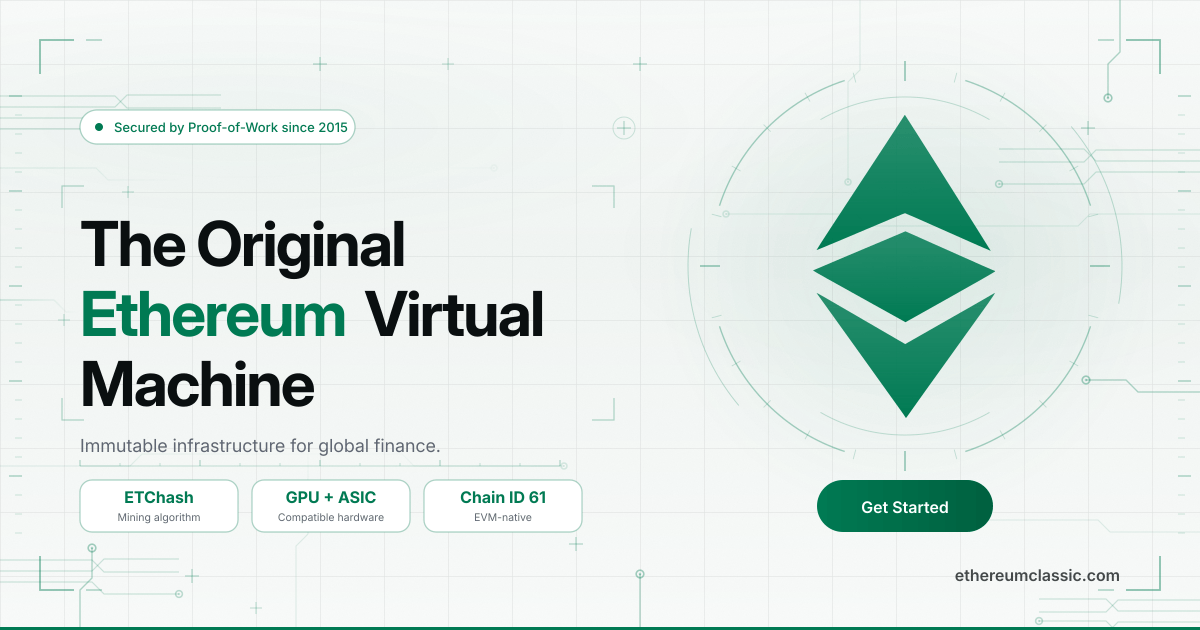
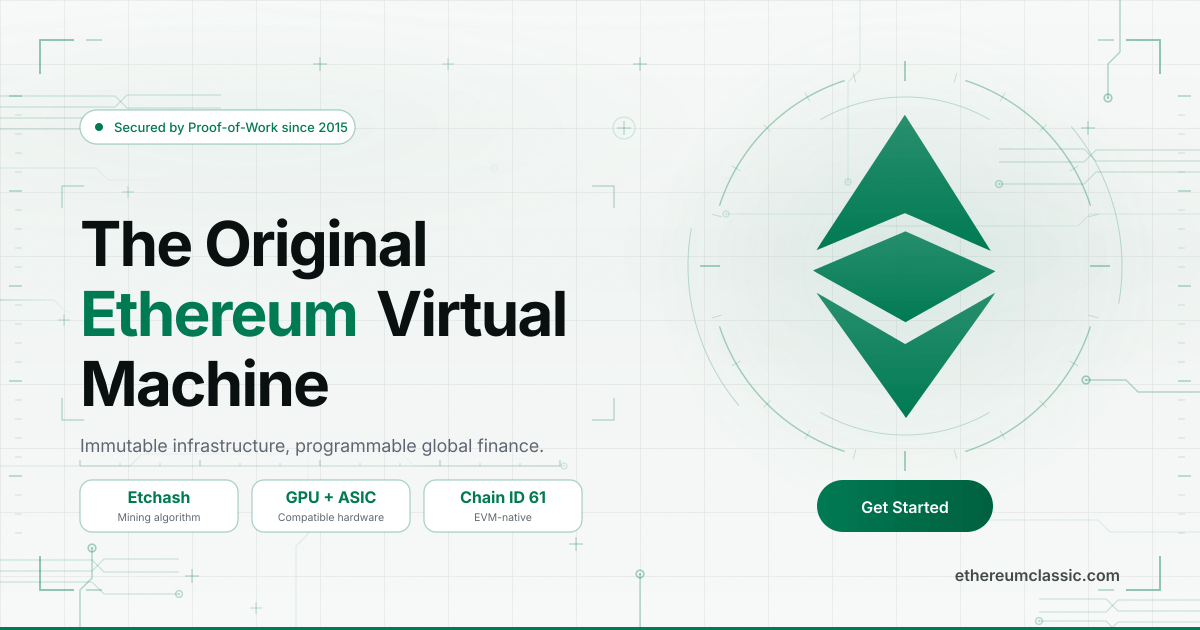
Position the site as the home of Ethereum Classic
The site takes the place bitcoin.com takes for Bitcoin, beside
ethereumclassic.org as bitcoin.org's counterpart. Its structured data,
About page, llms files and README call it the home of Ethereum Classic,
and nothing calls it official: ethereumclassic.org says there is no
official anything in Ethereum Classic, and bitcoin.com makes no such
claim either.

The home page's title is its hero headline, "Ethereum Classic: The
Original Ethereum Virtual Machine". Its description, the hero's badge,
the footer, the llms summary and the network's structured data carry the
descriptor "Immutable infrastructure, programmable global finance", and
the badge no longer calls Ethereum Classic the leading smart contract
platform. The README lists the site's sections, where its figures come
from and how to report an error. The social card shows the descriptor and
spells Etchash as the site does, and the security best practices
article tells readers to use trusted links from ethereumclassic.com,
where it said official ones.

The agent instructions record the position, together with naming
Ethereum Classic DAO in full and labeling release links "Latest release".

diff --git a/lib/site-identity.ts b/lib/site-identity.ts
@@ -5,9 +5,13 @@ import { CONTACT_EMAILS, DISCORD_URL } from '@/lib/social'
  * (app/components/JsonLd.tsx), the About page and both llms files, so search engines, AI systems and
  * readers are told the same thing. lib/site-facts.ts holds the facts most often stated wrongly elsewhere.
  *
- * The site describes itself by its domain, its sources and its relationships, never as "official":
- * Ethereum Classic is an open network that no one organization speaks for. Authority here comes from
- * linking every claim to its primary source.
+ * The site takes the position bitcoin.com takes for Bitcoin, with ethereumclassic.org as its bitcoin.org: it is
+ * the home of Ethereum Classic and says so. The maintainer's descriptor, "immutable infrastructure, programmable
+ * global finance", plays the part of bitcoin.com's "Bitcoin for Everyone": it leads the home page's description
+ * and fills the hero badge, the footer, the llms summary and the network's structured data, while the title
+ * names the original Ethereum Virtual Machine. It never calls itself "official", as bitcoin.com does not:
+ * Ethereum Classic is an open network that no one organization speaks for, and the community site says there is
+ * "no official anything". The site's standing comes from linking every claim to its source.
  */
 
 export const SITE_URL = 'https://ethereumclassic.com'
@@ -21,7 +25,7 @@ export const COMMUNITY_SITE_URL = 'https://ethereumclassic.org'
 export const CORRECTIONS_EMAIL = CONTACT_EMAILS.website
 
 export const SITE_DESCRIPTION =
-  'Ethereum Classic at its namesake domain: wallets, exchanges, apps, mining, development and research, with network figures read from the chain and each specification linked to its source.'
+  'The home of Ethereum Classic: wallets, exchanges, apps, mining, development and research, with network figures read from the chain and each specification linked to its source.'
 
 /** Pages that identify the Ethereum Classic network itself, for structured data's sameAs. */
 export const ETC_IDENTITY_URLS = [

diff --git a/app/components/homepage/Hero.tsx b/app/components/homepage/Hero.tsx
@@ -45,13 +45,13 @@ export default function Hero({ hashrate }: { hashrate?: HashrateChartData }) {
               <span className="absolute inline-flex h-full w-full animate-ping rounded-full bg-[var(--brand-green)] opacity-75" />
               <span className="relative inline-flex h-2 w-2 rounded-full bg-[var(--brand-green)]" />
             </span>
-            The Leading Smart Contract Platform secured by Proof-of-Work
+            Immutable infrastructure, programmable global finance
           </span>
         </div>
 
         {/* Subheading */}
         <p className="mx-auto mt-6 max-w-4xl text-lg text-[var(--text-secondary)] md:text-xl">
-          Ethereum Classic is immutable infrastructure for global finance. As the only mature Proof-of-Work blockchain with native smart contracts, it is permissionless and censorship-resistant, and dedicated miners have secured it continuously since 2015.
+          As the only mature Proof-of-Work blockchain with native smart contracts, Ethereum Classic is permissionless and censorship-resistant, and dedicated miners have secured it continuously since 2015.
         </p>
 
         {/* Hashrate chart */}

diff --git a/app/about/page.tsx b/app/about/page.tsx
@@ -28,10 +28,9 @@ export default function AboutPage() {
           </h1>
 
           <p className="mx-auto mt-6 max-w-2xl text-lg text-[var(--color-text-secondary)]">
-            ethereumclassic.com is the Ethereum Classic portal at the network&apos;s namesake domain. It covers
-            Ethereum Classic, the only mature Proof-of-Work blockchain with native smart contracts, producing blocks
-            since July 2015: its wallets, exchanges, apps, mining and developer tools, with news and research, for
-            users, developers, miners and institutions.
+            ethereumclassic.com is the home of Ethereum Classic, the only mature Proof-of-Work blockchain with
+            native smart contracts, producing blocks since July 2015: its wallets, exchanges, apps, mining and
+            developer tools, with news and research, for users, developers, miners and institutions.
           </p>
         </div>
       </section>

diff --git a/lib/site-facts.ts b/lib/site-facts.ts
@@ -71,7 +71,7 @@ export const COMMONLY_MISSTATED: MisstatedFact[] = [
 /** The "About this site" paragraph for the llms files. */
 export function siteAboutText(): string {
   const sources = SITE_SOURCES.map((s) => `- ${s.subject}: ${s.detail} (${s.href})`).join('\n')
-  return `ethereumclassic.com is the Ethereum Classic portal at the network's namesake domain. It follows the ethereumclassic GitHub organization (${ETC_GITHUB_URL}), where the reference client and the ECIPs are maintained, and links each claim to its primary source:
+  return `ethereumclassic.com is the home of Ethereum Classic. It follows the ethereumclassic GitHub organization (${ETC_GITHUB_URL}), where the reference client and the ECIPs are maintained, and links each claim to its primary source:
 
 ${sources}
 

diff --git a/app/llms.txt/route.ts b/app/llms.txt/route.ts
@@ -41,7 +41,7 @@ const moveGuide = listedArticle('core-geth-v1-12-to-v1-13-migration')
 export function GET() {
   const body = `# Ethereum Classic (ETC)
 
-> Ethereum Classic is immutable infrastructure for global finance: the only mature Proof-of-Work blockchain with native smart contracts, permissionless and censorship-resistant, and secured by dedicated miners continuously since 2015.
+> Ethereum Classic is immutable infrastructure for programmable global finance: the only mature Proof-of-Work blockchain with native smart contracts, permissionless and censorship-resistant, and secured by dedicated miners continuously since 2015.
 
 Full context for AI agents: https://ethereumclassic.com/llms-full.txt
 

diff --git a/app/layout.tsx b/app/layout.tsx
@@ -21,9 +21,9 @@ const jetbrainsMono = JetBrains_Mono({
 
 export const metadata: Metadata = {
   metadataBase: new URL("https://ethereumclassic.com"),
-  title: "Ethereum Classic: Immutable Infrastructure for Global Finance",
+  title: "Ethereum Classic: The Original Ethereum Virtual Machine",
   description:
-    "The only mature Proof-of-Work blockchain with native smart contracts: permissionless, censorship-resistant, and operating continuously since 2015.",
+    "Immutable infrastructure, programmable global finance: the only mature Proof-of-Work blockchain with native smart contracts, operating continuously since 2015.",
   keywords: [
     "Ethereum Classic",
     "ETC",

diff --git a/app/components/JsonLd.tsx b/app/components/JsonLd.tsx
@@ -40,7 +40,7 @@ export function SiteJsonLd() {
         name: 'Ethereum Classic',
         alternateName: 'ETC',
         description:
-          'Ethereum Classic is the original Ethereum blockchain, producing blocks continuously since July 30, 2015: a Proof-of-Work network with native smart contracts and a fixed monetary policy.',
+          'Ethereum Classic is the original Ethereum blockchain and immutable infrastructure for programmable global finance: a Proof-of-Work network with native smart contracts and a fixed monetary policy, producing blocks continuously since July 30, 2015.',
         sameAs: ETC_IDENTITY_URLS,
       },
       {

diff --git a/app/news/data/articles.ts b/app/news/data/articles.ts
@@ -602,7 +602,7 @@ For significant holdings, hardware wallets like Ledger or Trezor provide strong 
 ### Protection
 - Official teams never DM you first asking for funds
 - Always verify URLs before connecting wallets
-- Use official links from ethereumclassic.com
+- Use trusted links from ethereumclassic.com
 
 Stay vigilant and protect your ETC.`,
     date: '2023-03-15',

diff --git a/app/sections/SiteFooter.tsx b/app/sections/SiteFooter.tsx
@@ -150,7 +150,7 @@ export function SiteFooter() {
           </p>
 
           <p className="text-center text-xs text-[var(--text-muted)]">
-            Immutable infrastructure for global finance.
+            Immutable infrastructure, programmable global finance.
           </p>
 
           <a

diff --git a/AGENTS.md b/AGENTS.md
@@ -8,7 +8,8 @@ routes visitors to real ETC activity rather than reimplementing it.
 - **Repo:** `ethereumclassic-com/landing-site` (public)
 - **Branch:** work on `main`; it deploys.
 - **Companion site:** ethereumclassic.org is the community and protocol-docs
-  site. This one is the consumer gateway. Keep the split.
+  site. This one is the consumer gateway, the home of Ethereum Classic, in the
+  relationship bitcoin.com has to bitcoin.org. Keep the split.
 
 ---
 
@@ -180,17 +181,26 @@ includes transaction fees, which vary per block.
   `/research/dao-fork`, `/why-classic/genesis` and `/olympia/history` stay, as
   research and as the record of how the chain came to be (maintainer decision).
 - **Naming.** "The DAO" is the 2016 organization behind the ETH/ETC split and
-  nothing else: never write it for Olympia DAO or Ethereum Classic DAO. Name the
-  LLC "Ethereum Classic DAO"; its legal name, Ethereum Classic DAO LLC, appears
-  only where its legal identity is the point, as in ECIP-1114's naming of the
-  legal wrapper. The mining algorithm is "Etchash" in prose; `ETCHASH` and
+  nothing else: never write it for Olympia DAO or Ethereum Classic DAO. Write
+  "Ethereum Classic DAO" in full every time, a second mention included, and
+  never "the LLC", nor an "it" that could read as Olympia DAO; its legal name,
+  Ethereum Classic DAO LLC, appears only where its legal identity is the point,
+  as in ECIP-1114's naming of the legal wrapper. The mining algorithm is "Etchash" in prose; `ETCHASH` and
   `etchash` stay only where a miner's command line spells them.
-- **The site's identity.** Describe ethereumclassic.com by its domain, its
-  sources and its relationships, never as "official": Ethereum Classic is an
-  open network that no organization speaks for. `lib/site-identity.ts` (what the
-  site is and where its figures come from) and `lib/site-facts.ts` (facts other
-  sources often state wrongly) feed the structured data, the About page and both
-  llms files, so change them there.
+- **The site's identity.** ethereumclassic.com takes the position bitcoin.com
+  takes for Bitcoin, with ethereumclassic.org as its bitcoin.org (maintainer
+  decision): it is the home of Ethereum Classic and says so. The maintainer's
+  descriptor, "immutable infrastructure, programmable global finance", plays the
+  part of bitcoin.com's "Bitcoin for Everyone": it leads the home page's
+  description and fills the hero badge, the footer, the llms summary and the
+  network's structured data, while the title stays the hero headline, "Ethereum
+  Classic: The Original Ethereum Virtual Machine". It never calls itself
+  "official", as bitcoin.com does not, and nothing here contradicts
+  ethereumclassic.org's "no official anything": Ethereum Classic is an open
+  network that no organization speaks for. `lib/site-identity.ts` (what the site is and where its figures
+  come from) and `lib/site-facts.ts` (facts other sources often state wrongly)
+  feed the structured data, the About page and both llms files, so change them
+  there.
 - **Olympia is a proposal.** Its ECIPs are drafts and its activation block is
   TBD, so every sentence about it is in proposal voice ("would", "proposed"),
   and its state shows as `OLYMPIA_STATUS`, "Proposed · Draft ECIPs ·
@@ -285,7 +295,8 @@ includes transaction fees, which vary per block.
   trust product, never an ETF. Classic USD is issued by Brale and "aligned with"
   MiCA and the GENIUS Act, never "compliant" and never "the first".
 - **No hype and no superlatives:** not "most significant", "unmatched", "the
-  premier" or "gold standard".
+  premier" or "gold standard". The one primacy claim is the site's own, "the
+  home of Ethereum Classic" (the site's identity, above).
 
 **Consumer copy.** Everything a visitor reads is consumer-facing; internal and
 development language must not reach the UI.
@@ -303,10 +314,12 @@ milestone numbers, phase references, or roadmap terminology in rendered content.
 **Write timeless.** No "future work", "coming soon", "planned post-X", "not yet".
 Describe what a thing is; put mutable status in a structured field such as a
 badge or status property, so changing it later is one edit rather than a prose
-hunt. A client's current release is mutable status too, and no field keeps up
+hunt. A client's newest release is mutable status too, and no field keeps up
 with it: never type its version. Name the line where a recommendation needs one
 (`CORE_GETH_RECOMMENDED_LINE`), and link the release itself as
-`releases/latest`. A version a fix first shipped in is history and stays.
+`releases/latest`, labeled "Latest release", as ethereumclassicdao.org labels
+it; the site's copy never says "current release". A version a fix first
+shipped in is history and stays.
 
 ## Listing apps, exchanges, and pools
 

diff --git a/README.md b/README.md
@@ -1,28 +1,34 @@
-# EthereumClassic.com
+# ethereumclassic.com
 
-The consumer and institutional portal for Ethereum Classic — covering wallets, exchanges, mining, developer tools, markets, news, and the Olympia upgrade ecosystem.
+The home of Ethereum Classic: wallets, exchanges, apps, mining, development and research, with network figures read from the chain and each specification linked to its source.
 
-**Live at:** https://ethereumclassic.com
+Ethereum Classic is immutable infrastructure for programmable global finance: the only mature Proof-of-Work blockchain with native smart contracts, permissionless, censorship-resistant, and operating continuously since 2015.
 
----
+**Visit [ethereumclassic.com](https://ethereumclassic.com)**
 
-## What's Here
+## On the Site
 
-- **Wallet** — wallet hub, reviews, hardware wallets, comparison tools
-- **Buy & Sell** — Exchange directory, payment methods, reviews
-- **Apps** — DeFi, payments, governance, and infrastructure on ETC
-- **Mining** — Pools, hardware, software, profitability, and getting started
-- **Build** — Developer docs, clients, networks, tools, and faucets
-- **Markets** — Live ETC price, charts, calculator, and converter
-- **Learn** — Guides covering basics, DeFi, wallets, trading, and security
-- **News** — Protocol updates, ecosystem announcements, and community news
-- **Research** — Emission schedule, supply tracker, network stats, and reports
-- **Olympia** — A proposed Ethereum Classic upgrade, targeted for 2027: EVM alignment through Glamsterdam, an EIP-1559 base fee credited to a treasury, and Olympia DAO to govern it
+- **[News](https://ethereumclassic.com/news)**: network updates, security notices, and ecosystem, community and development news
+- **[Wallets](https://ethereumclassic.com/wallet)**: wallet reviews, comparisons and setup, hardware wallets and MetaMask included
+- **[Apps](https://ethereumclassic.com/apps)**: DeFi, payments, governance, tools and infrastructure on Ethereum Classic
+- **[Buy and Sell](https://ethereumclassic.com/buy)**: exchanges, card and bank purchases, peer-to-peer trading and crypto ATMs
+- **[Learn](https://ethereumclassic.com/learn)**: guides to the basics, wallets, trading, DeFi, mining and security
+- **[Markets](https://ethereumclassic.com/markets)**: the ETC price, charts and market data
+- **[Research](https://ethereumclassic.com/research)**: the emission schedule, supply, network data and historical data
+- **[Mining](https://ethereumclassic.com/mining)**: pools, hardware, software, profitability and network statistics
+- **[Build](https://ethereumclassic.com/build)**: node clients, developer tools, networks, testnet faucets and grants
+- **[Tools](https://ethereumclassic.com/tools)**: a price converter, an investment calculator, a gas tracker and block explorers
+- **[Olympia](https://ethereumclassic.com/olympia)**: a proposed upgrade that would bring EVM alignment through Fusaka and into Glamsterdam, credit an EIP-1559 base fee to a treasury instead of destroying it as Ethereum does, and make Olympia DAO the only way that treasury could be spent
 
----
+## Where the Figures Come From
 
-## Ethereum Classic
+- **Chain figures**: block height, block time, difficulty, hashrate, pool shares and fees, read from [Blockscout](https://etc.blockscout.com), the open-source explorer
+- **Prices**: [CoinGecko](https://www.coingecko.com/en/coins/ethereum-classic), with Blockscout's copy of the same price when CoinGecko cannot be reached, and Kraken's weekly closing price for history older than a year
+- **Specifications**: the [ECIPs](https://github.com/ethereumclassic/ECIPs), Ethereum Classic's improvement proposals, linked from each page that describes one
+- **Clients**: each client's own project, [coregeth.com](https://coregeth.com) for Core-Geth and [fukuii.com](https://fukuii.com) for Fukuii
 
-Ethereum Classic is the original Ethereum chain — preserved through the 2016 DAO fork and operating continuously since 2015. It is the only mature Proof-of-Work blockchain with native smart contracts: EVM-native, and interoperable with the Ethereum ecosystem. The proposed Olympia upgrade would add a treasury funded by the EIP-1559 base fee, governed on-chain by Olympia DAO.
+A figure no source supplies shows as a dash, never as an old number.
 
-Learn more at [ethereumclassic.org](https://ethereumclassic.org).
+## Corrections
+
+Found something wrong on the site? Write to [website@ethereumclassic.com](mailto:website@ethereumclassic.com) or [open an issue](https://github.com/ethereumclassic-com/landing-site/issues).

diff --git a/.github/copilot-instructions.md b/.github/copilot-instructions.md
@@ -12,7 +12,8 @@ mining, developer tools, markets, news, research, and the Olympia upgrade. It
 routes visitors to real ETC activity rather than reimplementing it.
 
 ethereumclassic.org is the community and protocol-docs site. This is the consumer
-gateway. Keep the split.
+gateway, the home of Ethereum Classic, in the relationship bitcoin.com has to
+bitcoin.org. Keep the split.
 
 **Success is downstream clicks, not time on site.**
 
@@ -71,11 +72,17 @@ contracts, live since 2015, EVM-native and interoperable with Ethereum.
   `lib/olympia-eips.ts`. ECIP-1122, 1123 and 1124 are unpublished and never
   cited, nor are ECIP-1120 and ECIP-1130, other authors' proposals.
 - **Naming** — "The DAO" is only the 2016 organization behind the ETH/ETC
-  split, never Olympia DAO or Ethereum Classic DAO. Write "Ethereum Classic DAO";
-  its legal name, Ethereum Classic DAO LLC, only where its legal identity is the
-  point. The mining algorithm is "Etchash" in prose.
-- **The site's identity** — describe ethereumclassic.com by its domain, sources
-  and relationships, never as "official". `lib/site-identity.ts` and
+  split, never Olympia DAO or Ethereum Classic DAO. Write "Ethereum Classic DAO"
+  in full every time, never "the LLC"; its legal name, Ethereum Classic DAO LLC,
+  only where its legal identity is the point. The mining algorithm is "Etchash" in prose.
+- **The site's identity** — ethereumclassic.com is the home of Ethereum Classic,
+  bitcoin.com's position beside bitcoin.org, with ethereumclassic.org in
+  bitcoin.org's place. Its descriptor, "immutable infrastructure, programmable
+  global finance", leads the home page's description and fills the hero badge,
+  footer, llms summary and network structured data; the title stays "Ethereum
+  Classic: The Original Ethereum Virtual Machine". Never "official", as
+  bitcoin.com is not; nothing contradicts ethereumclassic.org's "no official
+  anything". `lib/site-identity.ts` and
   `lib/site-facts.ts` feed the structured data, the About page and the llms files.
 - **Ethereum Classic DAO and Olympia** — ECIP-1114 names Ethereum Classic DAO LLC as the legal
   wrapper it contemplates for Olympia DAO, downstream of it in authority, with
@@ -85,7 +92,8 @@ contracts, live since 2015, EVM-native and interoperable with Ethereum.
   JSON-RPC parity" (ECIP-1111 §Motivation: Foundry needs `--legacy` today); the
   CLARITY Act as settled (it is pending: "positioned for", "candidate"); ETCG
   as an ETF (it is a trust); Classic USD as "compliant" or "the first" (it is
-  "aligned with"); and superlatives.
+  "aligned with"); and superlatives, apart from the site's own "the home of
+  Ethereum Classic".
 - **Clients** — Core-Geth is the recommended client: a go-ethereum downstream,
   not native and not a plugin, recommended on its v1.13 line. A node older than
   v1.12.17 (coregeth.com's `MOVE_FLOOR`) never scheduled Spiral, so it resyncs
@@ -121,9 +129,10 @@ references, or roadmap terminology in rendered content.
 
 **Write timeless.** No "coming soon", "not yet", "planned post-X". Describe what a
 thing is; put mutable status in a badge or status property so changing it later is
-one edit. Never type the version of a client's current release: name the line a
-recommendation needs, and link the release itself as `releases/latest`. A version
-a fix first shipped in is history and stays.
+one edit. Never type the version of a client's newest release: name the line a
+recommendation needs, and link the release itself as `releases/latest`, labeled
+"Latest release"; the site's copy never says "current release". A version a fix
+first shipped in is history and stays.
 
 ## Three paths
 
